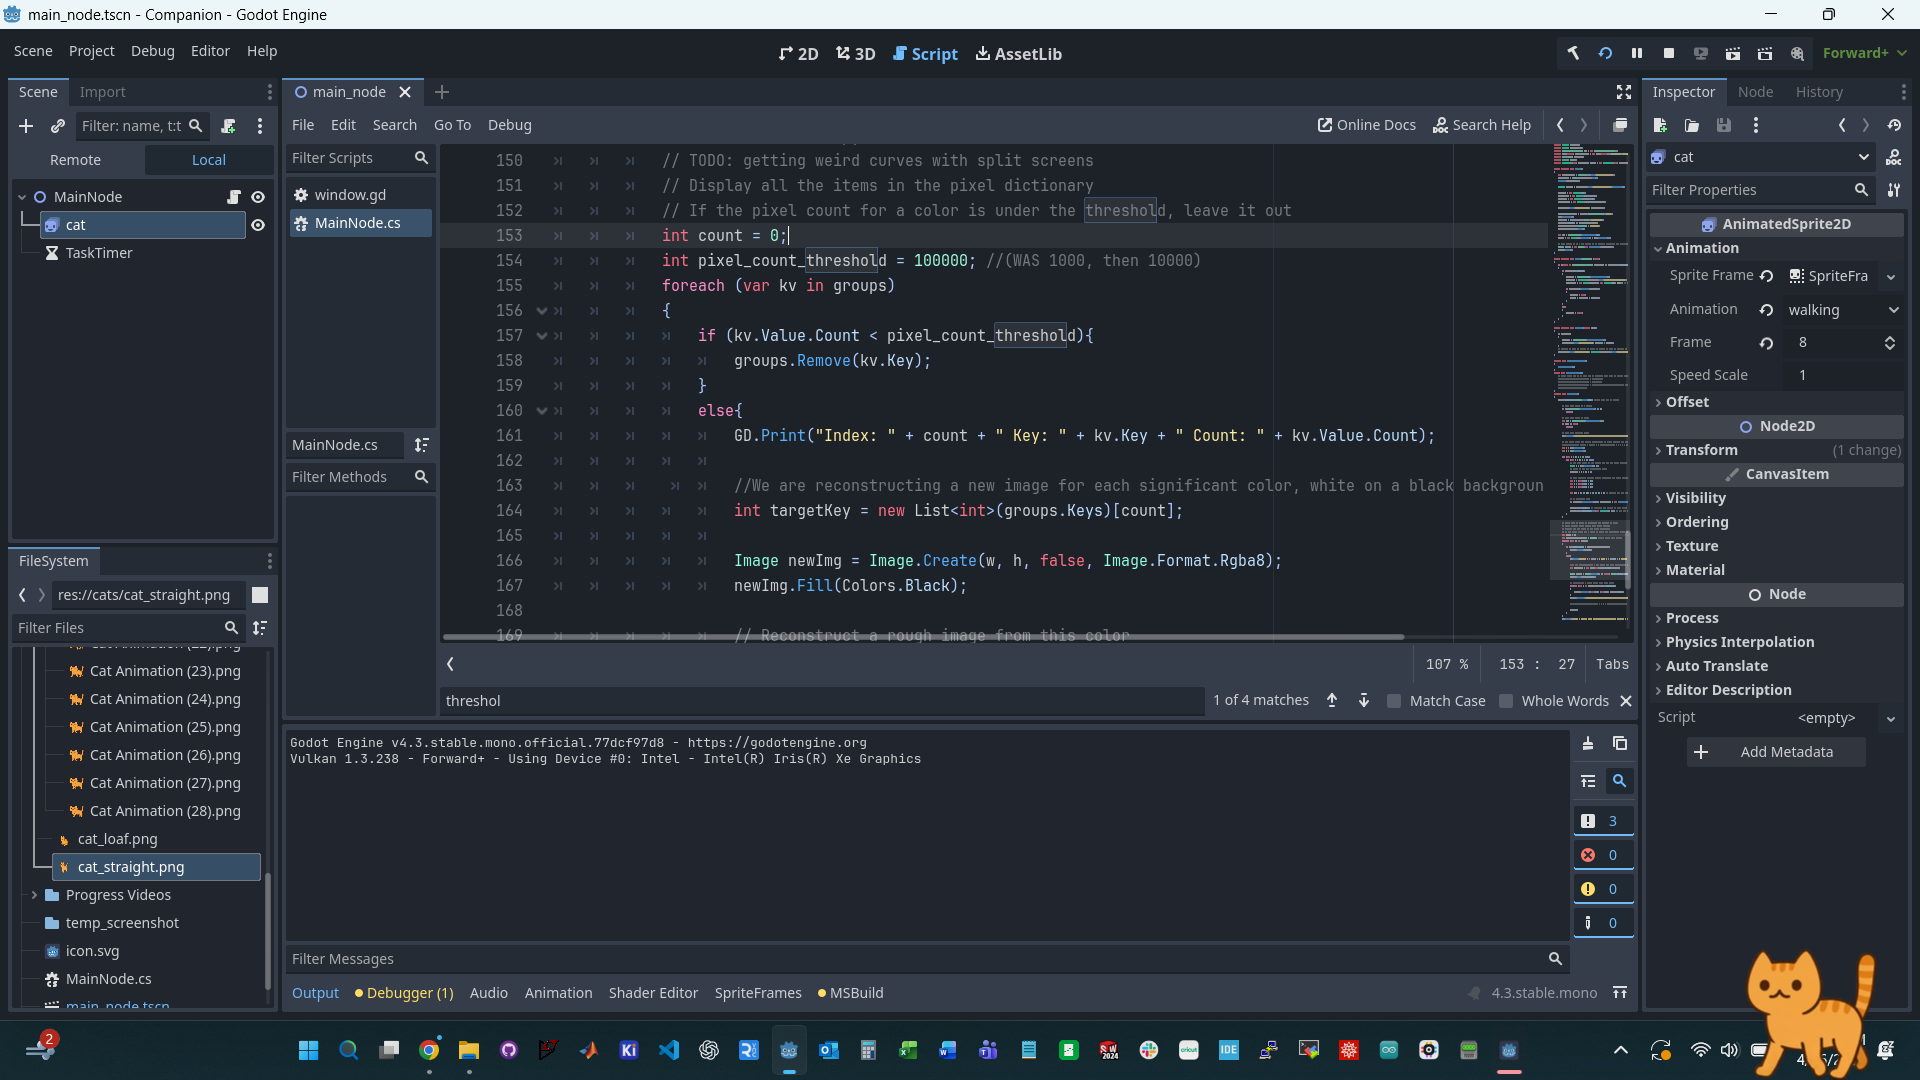
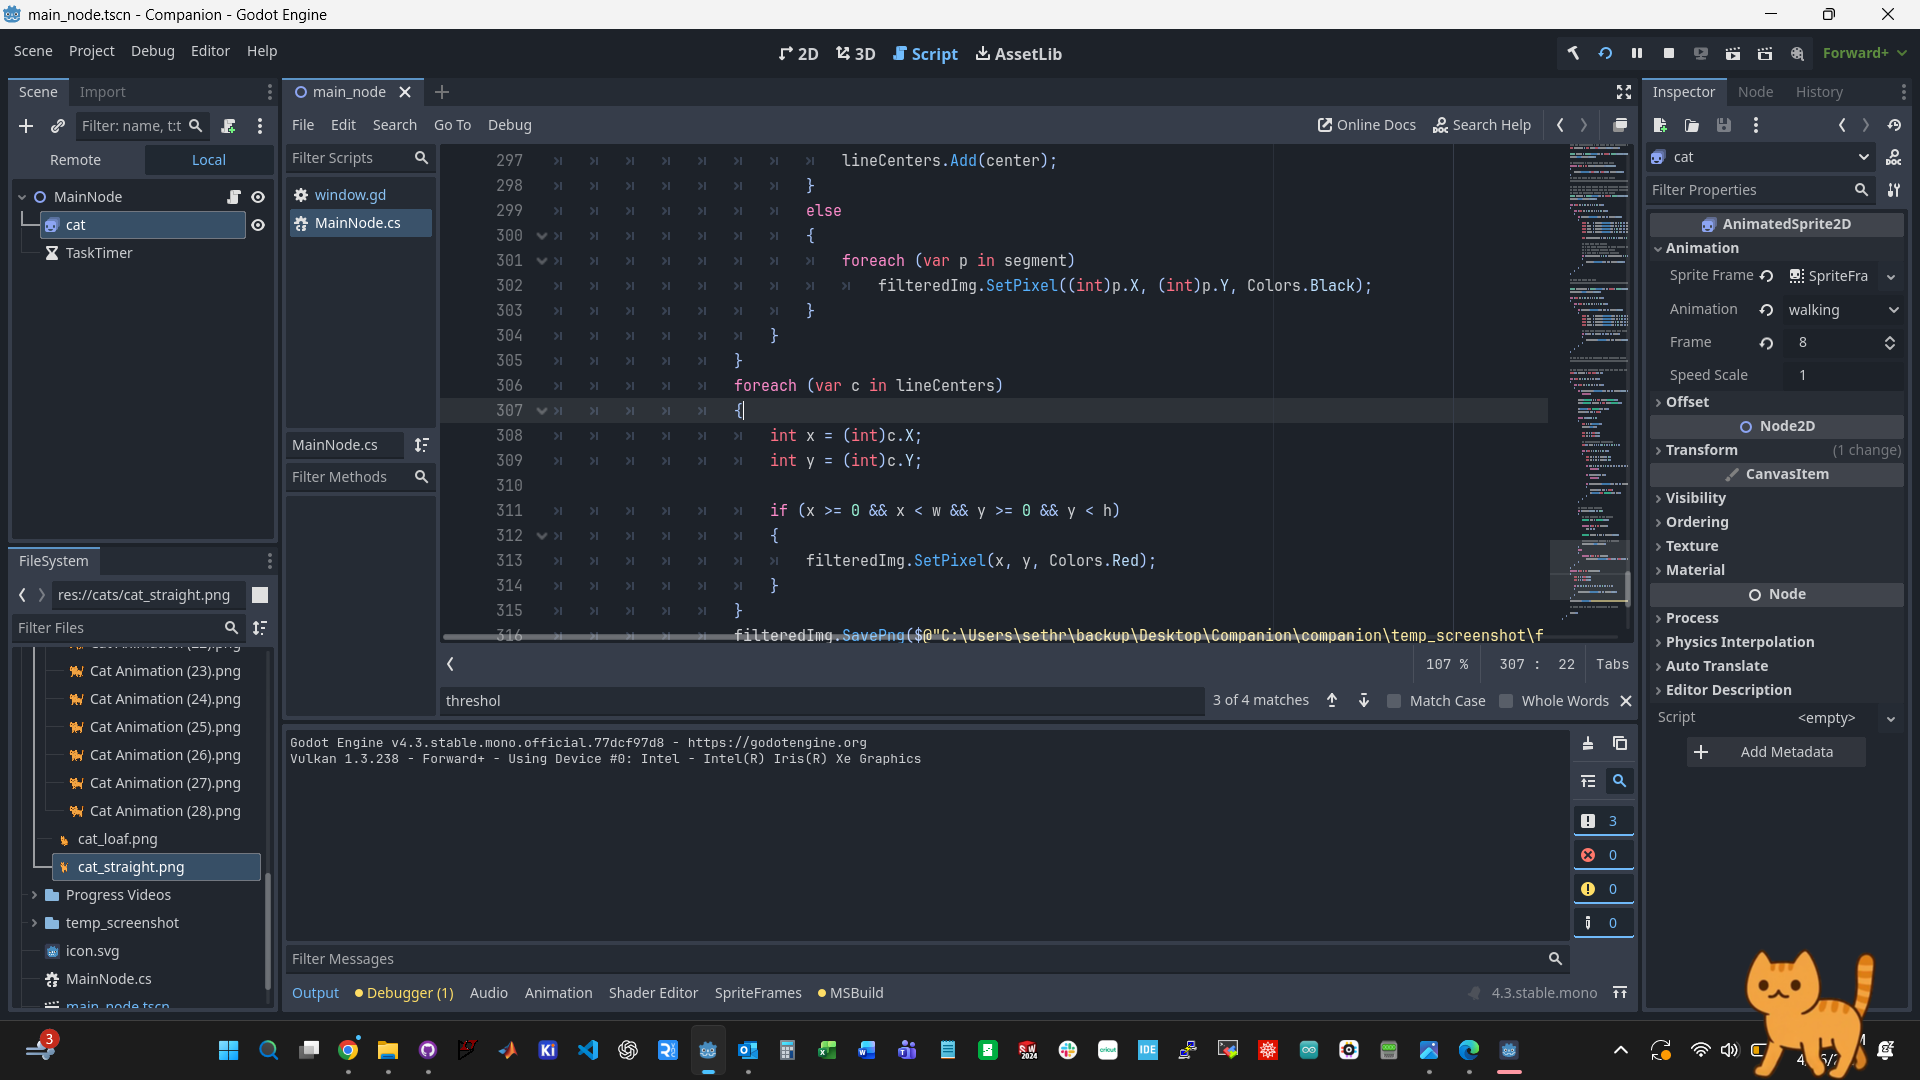
Success Finding all horizontal edges
This successfully finds all the horizontal edges, greater than 200 pixels wide. This will be for the cat to "loaf" on. It also finds the center of each line and marks it in red in the image.

diff --git a/MainNode.cs b/MainNode.cs
@@ -27,6 +27,7 @@ public partial class MainNode : Node2D
 	private Godot.Timer TaskTimer;
 	private Color[] pixels;
 	private Dictionary<int, PixelGroup> groups = new Dictionary<int, PixelGroup>();
+	private List<Vector2> lineCenters = new List<Vector2>();
 
 	public override void _Ready()
 	{
@@ -148,6 +149,7 @@ public partial class MainNode : Node2D
 			
 			// TODO: this is temp, to visualize the success of this. 
 			// TODO: getting weird curves with split screens
+			// TODO: maybe only use the largest group for speed
 			// If the pixel count for a color is under the threshold, leave it out
 			int count = 0;
 			int pixel_count_threshold = 100000;
@@ -171,11 +173,159 @@ public partial class MainNode : Node2D
 						newImg.SetPixel((int)p.X, (int)p.Y, Colors.White);
 					}
 					// This new image is still 1080 x 1920 pixels
-					newImg.SavePng($@"C:\Users\sethr\backup\Desktop\Companion\companion\temp_screenshot\frame_filter{count}.png");
+					//newImg.SavePng($@"C:\Users\sethr\backup\Desktop\Companion\companion\temp_screenshot\frame_filter{count}.png");
+					
+					// Take out any white pixels that are completely surrounded by white (top, bottom, right, left)
+					// Take out any white pixels that are completely surrounded by black (top, bottom, right, left)
+					// TODO: use dictionary instead of new image?
+					Image edgeImg = Image.Create(w, h, false, Image.Format.Rgba8);
+					edgeImg.Fill(Colors.Black);
+
+					for (int y2 = 1; y2 < h - 1; y2++)
+					{
+						for (int x2 = 1; x2 < w - 1; x2++)
+						{
+							if (newImg.GetPixel(x2, y2) == Colors.White)
+							{
+								bool up    = newImg.GetPixel(x2, y2 - 1) == Colors.White;
+								bool down  = newImg.GetPixel(x2, y2 + 1) == Colors.White;
+								bool left  = newImg.GetPixel(x2 - 1, y2) == Colors.White;
+								bool right = newImg.GetPixel(x2 + 1, y2) == Colors.White;
+
+								int whiteNeighbors = (up ? 1 : 0) + (down ? 1 : 0) + (left ? 1 : 0) + (right ? 1 : 0);
+
+								// Keep only edge pixels:
+								// - NOT fully surrounded by white (removes interior)
+								// - NOT isolated (removes noise)
+								// - DONT have a horizontal neighboor
+								if (whiteNeighbors > 0 && whiteNeighbors < 4 && (left || right))
+								{
+									edgeImg.SetPixel(x2, y2, Colors.White);
+								}
+							}
+						}
+					}
+					
+					// Make new image and save	
+					//edgeImg.SavePng($@"C:\Users\sethr\backup\Desktop\Companion\companion\temp_screenshot\frame_edges{count}.png");
+					
+					Image filteredImg = Image.Create(w, h, false, Image.Format.Rgba8);
+					filteredImg.Fill(Colors.Black);
+
+					for (int y2 = 1; y2 < h - 1; y2++)
+					{
+						for (int x2 = 1; x2 < w - 1; x2++)
+						{
+							if (edgeImg.GetPixel(x2, y2) == Colors.White)
+							{
+								bool up    = edgeImg.GetPixel(x2, y2 - 1) == Colors.White;
+								bool down  = edgeImg.GetPixel(x2, y2 + 1) == Colors.White;
+								bool left  = edgeImg.GetPixel(x2 - 1, y2) == Colors.White;
+								bool right = edgeImg.GetPixel(x2 + 1, y2) == Colors.White;
+
+								// keep only horizontal edges that have black on top and bottom, and white on left or right
+								if ((left || right) && (!up && !down))
+								{
+									filteredImg.SetPixel(x2, y2, Colors.White);
+								}
+							}
+						}
+					}
+
+					// Now we have all the one-pixel width horizontal edges.	
+					//filteredImg.SavePng($@"C:\Users\sethr\backup\Desktop\Companion\companion\temp_screenshot\frame_edges_filtered{count}.png");
+						
+						
+					// Now remove any horizontal edges that are less than 200 pixels long
+					bool[,] visited = new bool[w, h];
+
+					for (int y2 = 0; y2 < h; y2++)
+					{
+						for (int x2 = 0; x2 < w; x2++)
+						{
+							if (filteredImg.GetPixel(x2, y2) != Colors.White || visited[x2, y2])
+								continue;
+
+							Queue<Vector2> q = new Queue<Vector2>();
+							List<Vector2> segment = new List<Vector2>();
+
+							q.Enqueue(new Vector2(x2, y2));
+							visited[x2, y2] = true;
+
+							while (q.Count > 0)
+							{
+								var p = q.Dequeue();
+								segment.Add(p);
+
+								int px = (int)p.X;
+								int py = (int)p.Y;
+
+								// horizontal-only connectivity
+								int[,] dirs = { { -1, 0 }, { 1, 0 } };
+
+								for (int i = 0; i < 2; i++)
+								{
+									int nx = px + dirs[i, 0];
+									int ny = py + dirs[i, 1];
+
+									if (nx < 0 || ny < 0 || nx >= w || ny >= h)
+										continue;
+
+									if (visited[nx, ny])
+										continue;
+
+									if (filteredImg.GetPixel(nx, ny) == Colors.White)
+									{
+										visited[nx, ny] = true;
+										q.Enqueue(new Vector2(nx, ny));
+									}
+								}
+							}
+
+							// delete short segments
+							if (segment.Count >= 200)
+							{
+								// pick midpoint of the segment
+								Vector2 sum = Vector2.Zero;
+
+								foreach (var p in segment)
+									sum += p;
+
+								Vector2 center = sum / segment.Count;
+
+								//GD.Print("Line center: " + center);
+								lineCenters.Add(center);
+							}
+							else
+							{
+								foreach (var p in segment)
+									filteredImg.SetPixel((int)p.X, (int)p.Y, Colors.Black);
+							}
+						}
+					}
+					// Add small red dot in the center of each line, this is the reference loafpoint
+					foreach (var c in lineCenters)
+					{
+						int x = (int)c.X;
+						int y = (int)c.Y;
+
+						if (x >= 0 && x < w && y >= 0 && y < h)
+						{
+							filteredImg.SetPixel(x, y, Colors.Red);
+						}
+					}
+					filteredImg.SavePng($@"C:\Users\sethr\backup\Desktop\Companion\companion\temp_screenshot\frame_edges_filtered_final{count}.png");
+					
+					// TODO: need to know the location(s) of line(s)
 					
 					count++;
 				}
 			}
 			GD.Print($"Total # groups over {pixel_count_threshold} pixels: " + groups.Count); 
+			
+			for (int i = 0; i < lineCenters.Count; i++)
+			{
+				GD.Print("line center #" + i + ": " + lineCenters[i]);
+			}
 	}
 }
